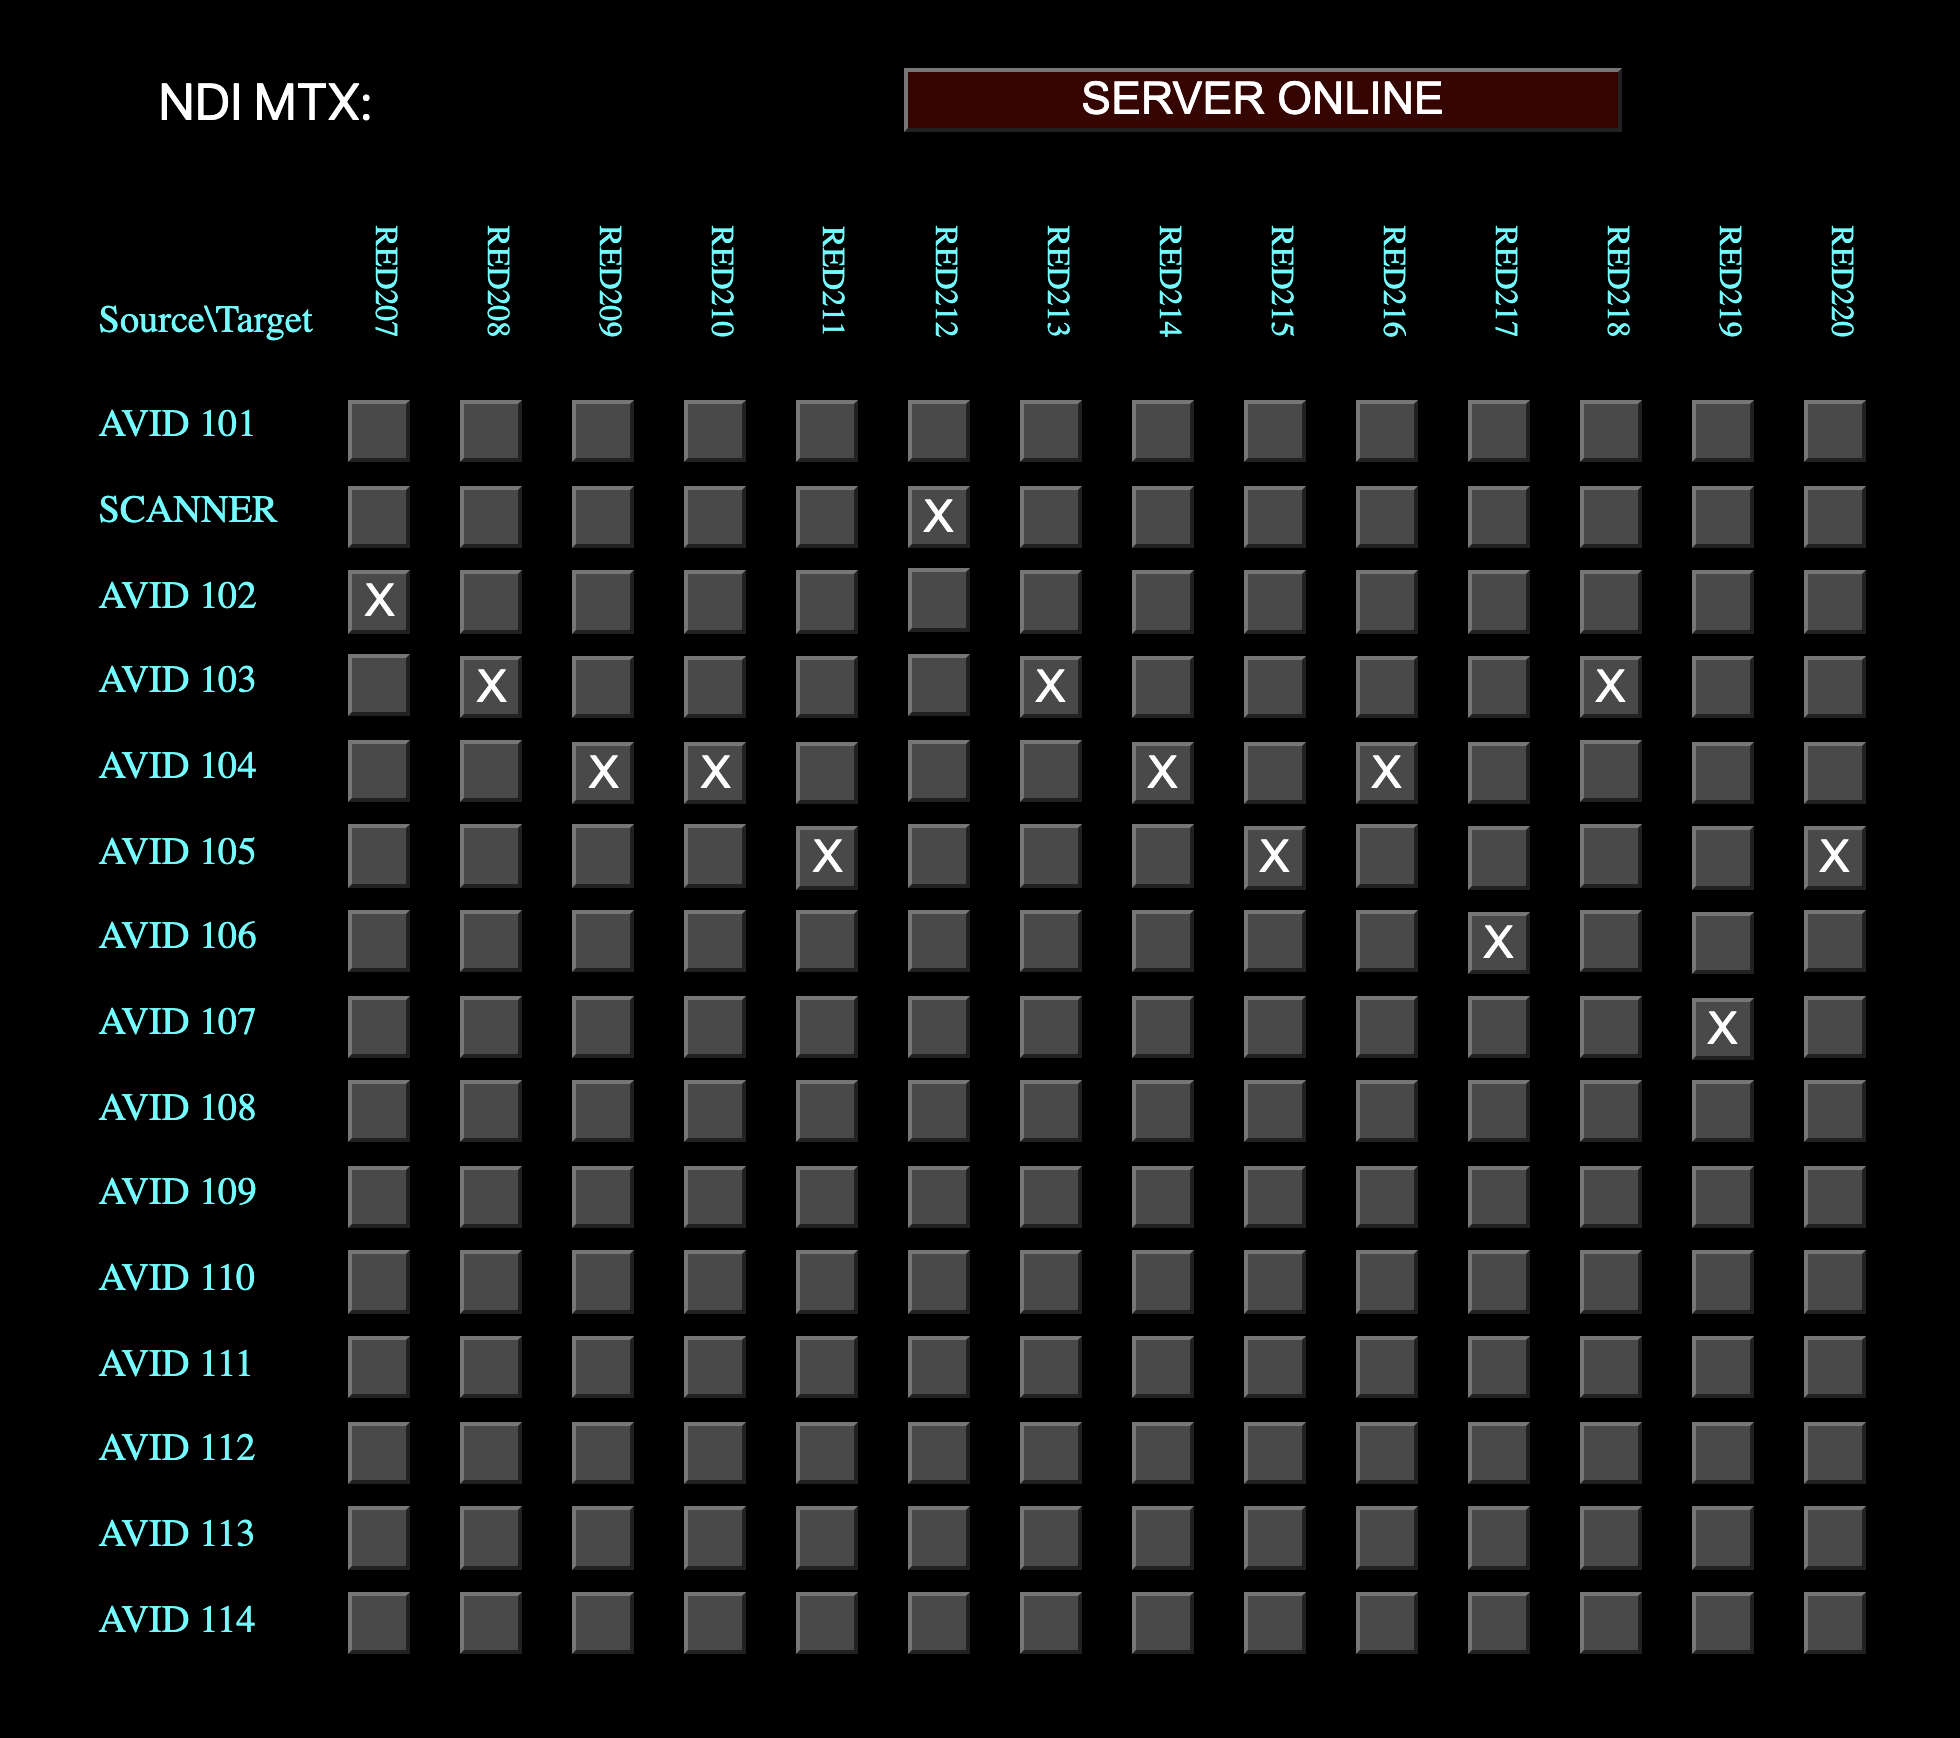
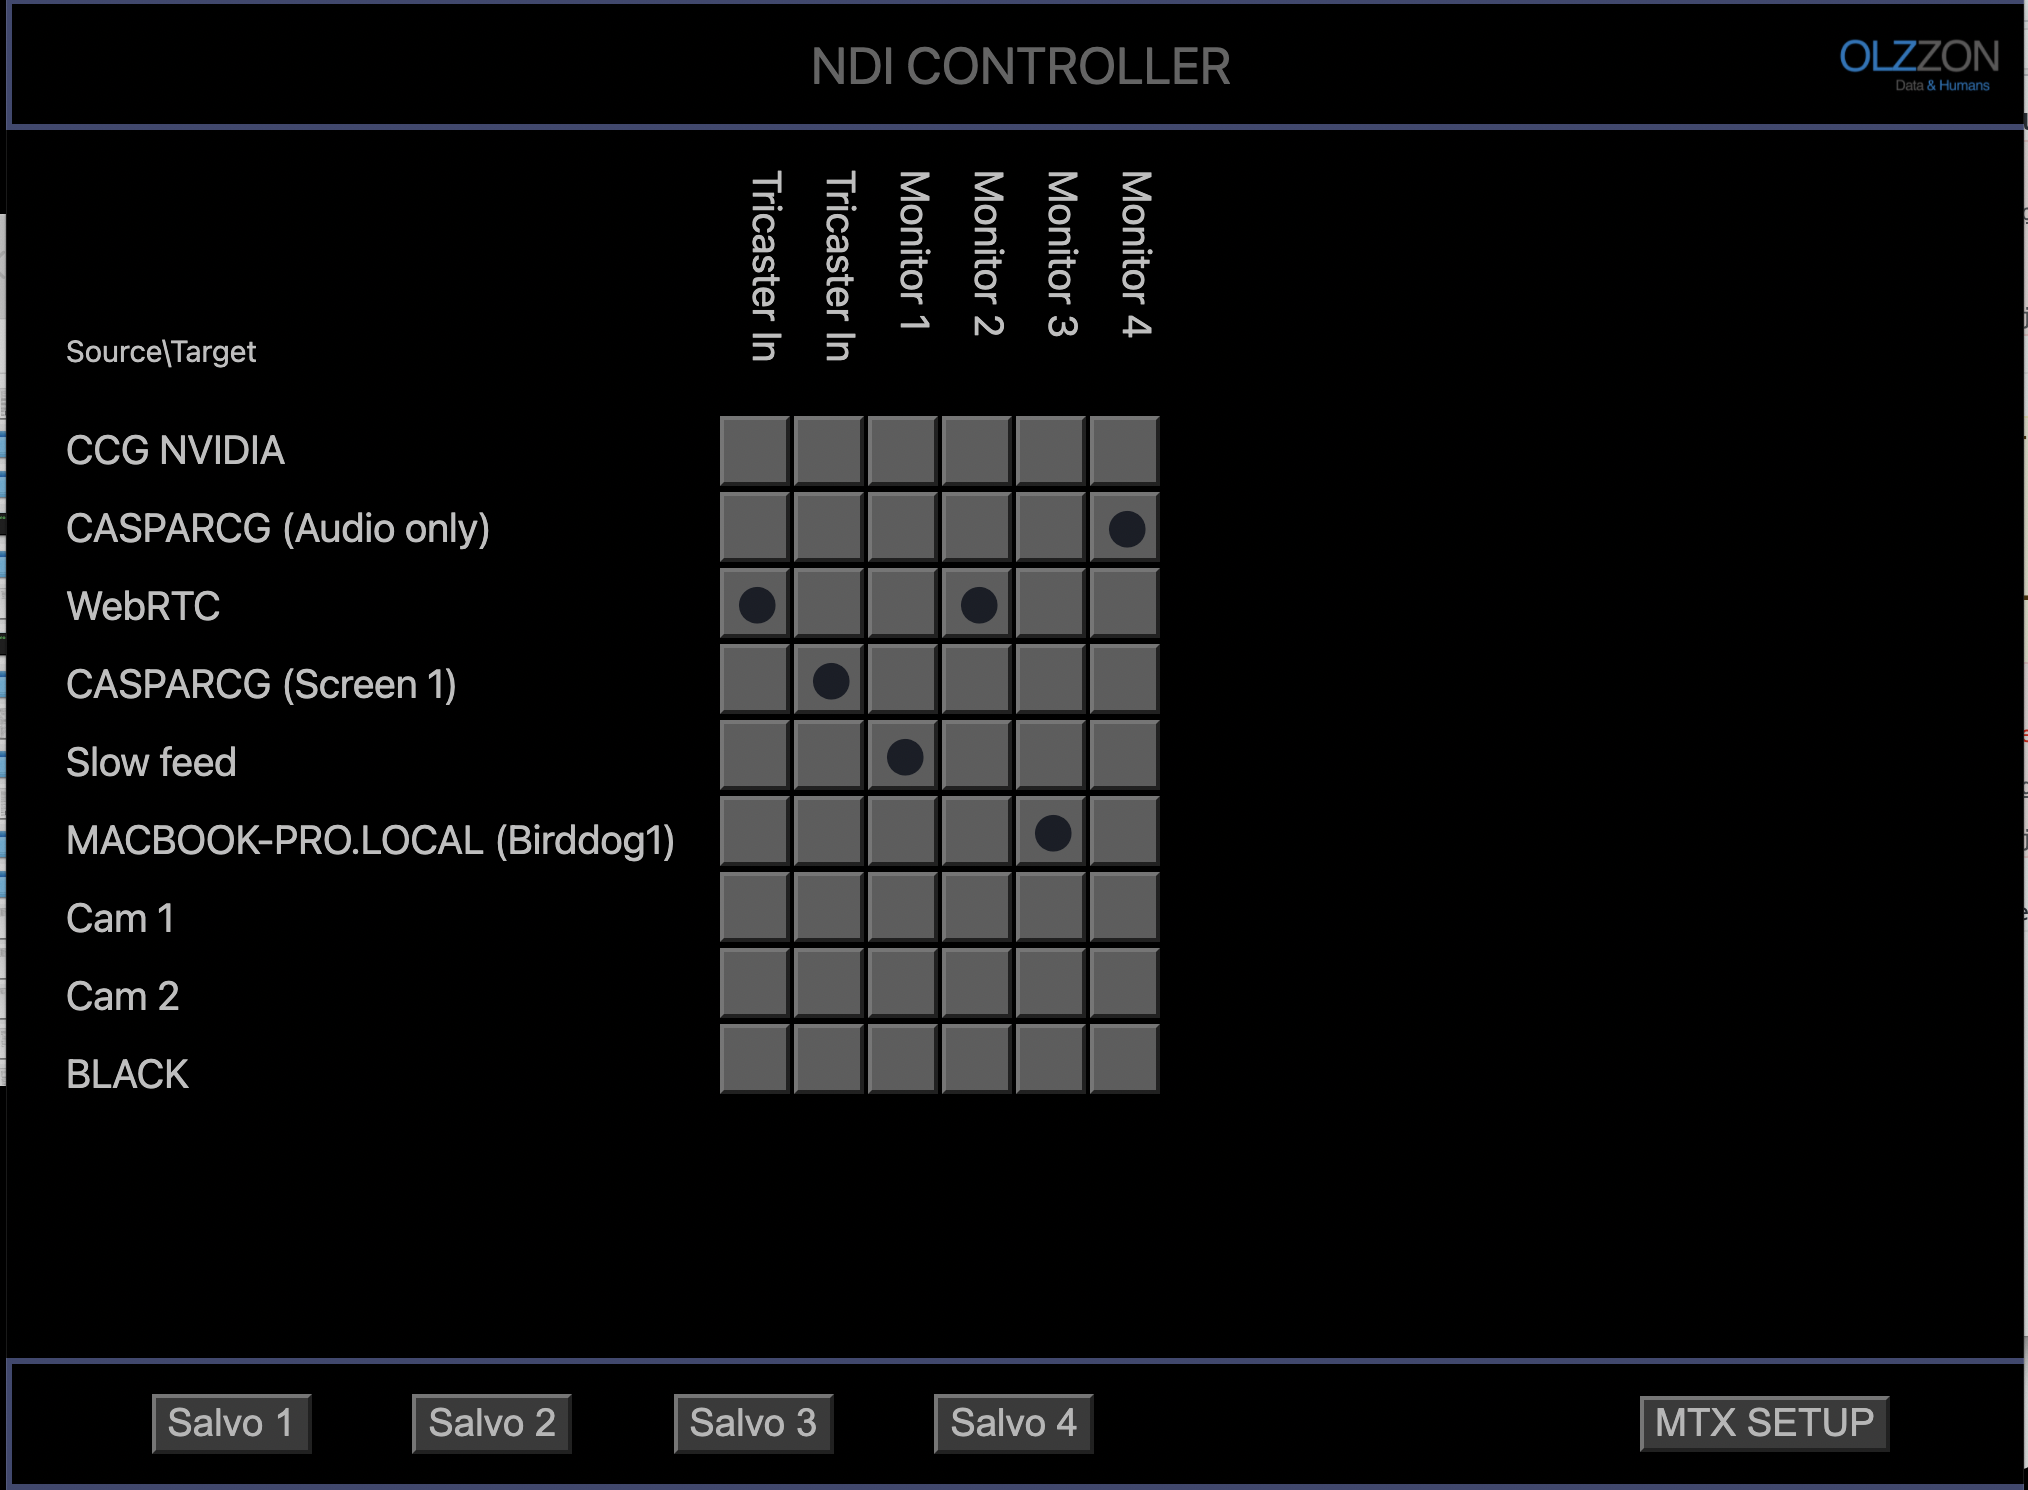
Doc: update README with new features

diff --git a/README.md b/README.md
@@ -1,22 +1,35 @@
-# NDI-EMBER-MTX
+# NDI-CONTORLLER
 
-NDI Matrice with Ember control for NDI - VSM integration
-The NDI MTX creates virtual targets (defined in target.json file) that you can select from your NDI Decoder (E.g. vMix or a Birddog)
+The NDI Controller is a GUI based virtual NDI Matrix.
+The NDI Controller creates virtual targets that you can select from your NDI Decoder (E.g. Tricaster or a Birddog)
 
-It's build with static installations in mind, so it's not using discovering protocol for finding sources. But instead a static list in sources.json file.
+In MTX SETUP you can add sources based on NDI discovery, or manually added sources, if you wan't a sources that in another sub-net.
+
+There are 4 salvos (presets) for fast recalling a setup. You can store a prsset by press-and-hold the button for 0.6 sec.
+
+It has support for external control by Ember supported software/hardware (e.g. VSM) 
+And has a simple REST API for other external control. 
 
 ## Matrix view:
 <img src="doc/mtx.png">
 
 ## Client Panel view:
+If you open up a brower and type: 
+```
+localhost:5901/?target=3 (or whatever ip-address the NDI-Controller is located)
+```
+You'll get a personal source selector for a single target
 <img src="doc/clientpanel.png">
 
-## Installation: 
-(ubuntu 20.04lts on Intel based machine)
+## MTX Setup view:
+<img src="doc/mtx-setup.png">
 
-### Setup in storage folder:
-sources.json is the list of sources remember to add dnsName AND url
-targets.json is the name of targets, you can add up to 100 in current configuration.
+## Add source:
+<img src="doc/source-select.png">
+
+
+## Windows Installation: 
+Run the pre-build "ndi-controller Setup x.x.x.exe"
 
 ### Build and run:
 ndi_mtx.cc will build when yarn is called.
@@ -32,7 +45,7 @@ yarn build-client
 yarn start
 ```
 
-Open MTX GUI in chrome:
+Open Web control in chrome:
 ```
 http://localhost:5901
 ```
@@ -52,41 +65,6 @@ POST http://localhost:5901/setmatrix?source=8&target=3
 And /state returns JSON with current state:
 ```
 http://localhost:5901/state
-```
-
-## Example of autostart using systemd:
-(based on standard install of nodejs and user named ndi)
-
-create start.sh file in ndi-ember-mtx folder:
-```
-#!/bin/bash
-while true; do
-    echo "Starting NDI MTX"
-    cd /home/ndi/ndi-ember-mtx
-    /etc/bin/node build/server/index.js
-    sleep 2
-done
-```
-
-create systemd service file /etc/systemd/system/ndimtx.service
-```
-[Unit]
-After=network.service
-
-[Service]
-Type=simple
-ExecStart=/home/ndi/ndi-ember-mtx/start.sh
-WorkingDirectory=/home/ndi/ndi-ember-mtx
-StandardOutput=syslog
-StandardError=syslog
-User=ndi
-
-[Install]
-WantedBy=multi-user.target
-```
-start service with:
-```
-systemctl start ndimtx.service
 ```
 
 
